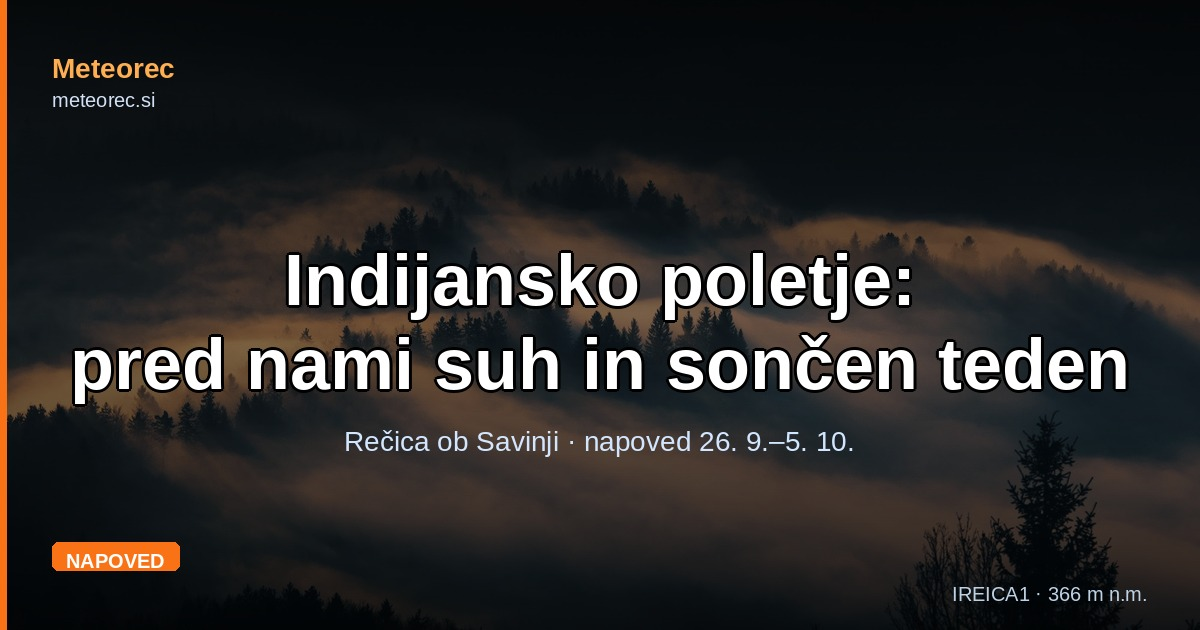
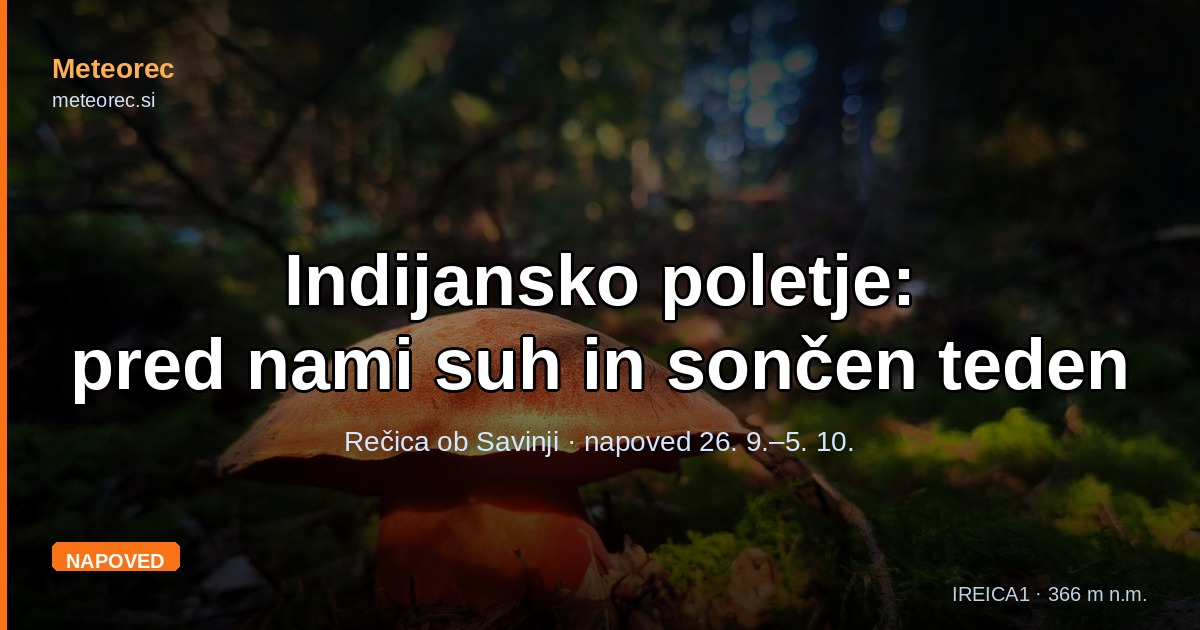
blog: indijansko poletje – lektura in fotografiji
Vneseni lektorski popravki (slog, ponavljanja, časovni izrazi, »članov
ansambla«), tudi v FAQ in shemi FAQPage. Dodani fotografiji s 25. 9.
(večerni altokumulusi, goban v smrekovem gozdu), pomanjšani na 1248 px
in brez metapodatkov EXIF; OG slika zdaj iz fotografije gobana.
seo_audit.py in geo_audit.py brez napak.

Claude-Session: https://claude.ai/code/session_01D8JwkgFu43L9J6TMop3vem

diff --git a/blog/indijansko-poletje-suh-soncen-teden-0925.html b/blog/indijansko-poletje-suh-soncen-teden-0925.html
@@ -76,13 +76,13 @@ j=d.createElement(s),dl=l!='dataLayer'?'&l='+l:'';j.async=true;j.src=
   "inLanguage": "sl",
   "mainEntity": [
     { "@type": "Question", "name": "Kaj je indijansko poletje?",
-      "acceptedAnswer": { "@type": "Answer", "text": "Indijansko poletje je obdobje suhega, sončnega in za letni čas toplega vremena sredi jeseni, ko so že bili prvi hladni dnevi. Izraz izvira iz Severne Amerike. V srednji Evropi mu rečemo babje poletje, Hrvati pa miholjsko ljeto, po godu sv. Mihaela 29. septembra. Značilni so topla popoldneva, hladna jutra, pogosto z meglo po dolinah, in skoraj brez vetra." },
+      "acceptedAnswer": { "@type": "Answer", "text": "Indijansko poletje je obdobje suhega, sončnega in za letni čas toplega vremena sredi jeseni, ko so že bili prvi hladni dnevi. Izraz izvira iz Severne Amerike. V srednji Evropi mu rečemo babje poletje, Hrvati pa miholjsko ljeto, po godu sv. Mihaela 29. septembra. Značilni so topla popoldneva, hladna jutra, pogosto z meglo po dolinah, in skoraj brezvetrje." },
       "@id": "https://meteorec.si/blog/indijansko-poletje-suh-soncen-teden-0925.html#faq1" },
     { "@type": "Question", "name": "Koliko časa bo trajalo indijansko poletje v Zgornji Savinjski dolini?",
-      "acceptedAnswer": { "@type": "Answer", "text": "Po napovedi s 25. septembra 2026 bo suho vsaj od sobote, 26. septembra, do četrtka, 1. oktobra: nobeden od 51 členov ansambla ECMWF v tem času nima vsaj 1 mm dežja. Od petka dalje verjetnost dežja počasi narašča, okoli ponedeljka, 5. oktobra, pa ARSO in Open-Meteo napovedujeta dež." },
+      "acceptedAnswer": { "@type": "Answer", "text": "Po napovedi s 25. septembra 2026 bo suho vsaj od sobote, 26. septembra, do četrtka, 1. oktobra: nobeden od 51 članov ansambla ECMWF v tem času nima vsaj 1 mm dežja. Od petka dalje verjetnost dežja počasi narašča, okoli ponedeljka, 5. oktobra, pa ARSO in Open-Meteo napovedujeta dež." },
       "@id": "https://meteorec.si/blog/indijansko-poletje-suh-soncen-teden-0925.html#faq2" },
     { "@type": "Question", "name": "Zakaj so jutra ob indijanskem poletju tako hladna?",
-      "acceptedAnswer": { "@type": "Answer", "text": "Ker je zrak suh in nebo jasno, tla ponoči hitro oddajajo toploto, noči pa so konec septembra že daljše od dni. Hladen zrak se steka na dno doline in tam obleži pod temperaturno inverzijo. Zato je razlika med jutrom in popoldnevom večja kot običajno: v Rečici ob Savinji jo lokalni model MTR za prve dni napoveduje okoli 16 °C, povprečje tega tedna v letih 2020 do 2025 pa je bilo 11,5 °C." },
+      "acceptedAnswer": { "@type": "Answer", "text": "Ker je zrak suh in nebo jasno, tla ponoči hitro oddajajo toploto, noči pa so konec septembra že daljše od dni. Hladen zrak se steka na dno doline in tam obleži pod temperaturno inverzijo. Zato je razlika med jutrom in popoldnevom večja kot običajno: v Rečici ob Savinji jo lokalni model MTR za prve dni napoveduje okoli 16 °C, povprečje tega tedna v letih 2020–2025 pa je bilo 11,5 °C." },
       "@id": "https://meteorec.si/blog/indijansko-poletje-suh-soncen-teden-0925.html#faq3" }
   ]
 }
@@ -142,28 +142,33 @@ height="0" width="0" style="display:none;visibility:hidden"></iframe></noscript>
     <h1>Indijansko poletje: pred nami suh in sončen teden</h1>
     <p class="post-meta">25. septembra 2026 · Filip Eremita · Napoved za 26. 9.–5. 10.</p>
 
-    <p class="lead">V sredo zjutraj je postaja v Rečici namerila <strong>2,2 °C</strong>, najmanj letošnjo jesen. Zdaj se nad srednjo Evropo krepi <a href="/slovar/anticiklon/" style="color:var(--blue)">anticiklon</a> in vsi viri napovedi, ki jih spremljamo, se strinjajo: od sobote do vsaj četrtka bo suho in pretežno jasno, popoldne okoli 20 °C ali nekaj več, jutra pa hladna. Takemu vremenu sredi jeseni, potem ko smo že okusili prvi mraz, rečemo <strong>indijansko poletje</strong>.</p>
+    <p class="lead">V sredo zjutraj je postaja v Rečici izmerila <strong>2,2 °C</strong>, najmanj letošnjo jesen. Zdaj se nad srednjo Evropo krepi <a href="/slovar/anticiklon/" style="color:var(--blue)">anticiklon</a> in vsi viri napovedi, ki jih spremljamo, se strinjajo: od sobote do vsaj četrtka bo suho in pretežno jasno, popoldne okoli 20 °C ali nekaj več, jutra pa hladna. Takemu vremenu sredi jeseni, potem ko smo že okusili prvi mraz, rečemo <strong>indijansko poletje</strong>.</p>
 
     <div class="stat-grid">
-      <div class="stat-card c-rain"><div class="sc-label">Dež do 1. 10.</div><div class="sc-val">0/51</div><div class="sc-sub">členov ansambla ECMWF z vsaj 1 mm</div></div>
-      <div class="stat-card c-temp"><div class="sc-label">Popoldne (MTR)</div><div class="sc-val">21–23</div><div class="sc-sub">°C, sobota do ponedeljek</div></div>
-      <div class="stat-card c-wind"><div class="sc-label">Jutro (MTR)</div><div class="sc-val">5–7</div><div class="sc-sub">°C, sobota do ponedeljek</div></div>
-      <div class="stat-card c-temp"><div class="sc-label">Povprečje tedna</div><div class="sc-val">18,9</div><div class="sc-sub">°C najvišja, 28. 9.–4. 10. v letih 2020–2025</div></div>
+      <div class="stat-card c-rain"><div class="sc-label">Dež do 1. 10.</div><div class="sc-val">0/51</div><div class="sc-sub">članov ansambla ECMWF z vsaj 1 mm</div></div>
+      <div class="stat-card c-temp"><div class="sc-label">Popoldne (MTR)</div><div class="sc-val">21–23</div><div class="sc-sub">°C, sobota do ponedeljka</div></div>
+      <div class="stat-card c-wind"><div class="sc-label">Jutro (MTR)</div><div class="sc-val">5–7</div><div class="sc-sub">°C, sobota do ponedeljka</div></div>
+      <div class="stat-card c-temp"><div class="sc-label">Povprečje tedna</div><div class="sc-val">18,9</div><div class="sc-sub">°C najvišja temperatura, 28. 9.–4. 10. v letih 2020–2025</div></div>
     </div>
 
     <span class="section-label">01 — Kaj je indijansko poletje</span>
     <h2 id="kaj">Poletje, ki se vrne, ko ga ne pričakujemo več</h2>
 
-    <p>Izraz <em>Indian summer</em> izvira iz Severne Amerike, kjer se v zapisih pojavlja od konca 18. stoletja. Tam pomeni toplo, suho in mirno obdobje sredi jeseni, ki pride <strong>po prvem mrazu</strong>. Od kod ime, ni zanesljivo znano; najpogostejša razlaga ga povezuje z domorodnimi ljudstvi, ki so te dni izkoristila za zadnje spravilo in lov pred zimo.</p>
+    <p>Izraz <em>Indian summer</em> izvira iz Severne Amerike, kjer se v zapisih pojavlja že od konca 18. stoletja. Tam pomeni toplo, suho in mirno obdobje sredi jeseni, ki pride <strong>po prvem mrazu</strong>. Od kod ime, ni zanesljivo znano; najpogostejša razlaga ga povezuje z domorodnimi ljudstvi, ki so te dni izkoristila za zadnje spravilo in lov pred zimo.</p>
 
-    <p>V srednji Evropi ima isti pojav domače ime: <strong>babje poletje</strong> (nemško <em>Altweibersommer</em>). Najpogostejša razlaga imena so tanke pajčje niti, ki jih mladi pajki v teh mirnih dneh spuščajo v zrak in se nanje dajo nositi – na soncu se svetlikajo kot sivi lasje. Hrvati mu rečejo <em>miholjsko ljeto</em>, po godu sv. Mihaela 29. septembra, ki pade letos natanko v torek sredi napovedanega suhega obdobja.</p>
+    <p>V srednji Evropi ima isti pojav domače ime: <strong>babje poletje</strong> (nemško <em>Altweibersommer</em>). Najpogostejša razlaga imena so tanke pajčevinaste niti, ki jih mladi pajki v teh mirnih dneh spuščajo v zrak in se na njih pustijo nositi – na soncu se svetlikajo kot sivi lasje. Hrvati mu rečejo <em>miholjsko ljeto</em>, po godu sv. Mihaela 29. septembra, ki letos pade natanko na torek sredi napovedanega suhega obdobja.</p>
 
-    <p>Z vremenskega vidika gre vedno za isto: nad nami obleži območje visokega zračnega tlaka, zrak se v njem počasi spušča in ogreva, oblaki se razkrojijo, vetra skoraj ni. Pogoj »po prvem mrazu« je letos v dolini izpolnjen le napol: slane v Rečici še ni bilo, sredino jutro z 2,2 °C pa je bilo mrazu blizu (več o tem v članku <a href="/blog/2-1-c-najhladnejse-jesensko-jutro-kdaj-prva-slana-0923.html" style="color:var(--blue)">Najhladnejše jesensko jutro: kdaj prva slana?</a>).</p>
+    <p>Z vremenskega vidika gre vedno za isti pojav: nad nami vztraja območje visokega zračnega tlaka, zrak se v njem počasi spušča in ogreva, oblaki se razkrojijo, vetra pa je zelo malo. Pogoj »po prvem mrazu« je letos v dolini izpolnjen le napol: slane v Rečici še ni bilo, sredino jutro z 2,2 °C pa je bilo mrazu že blizu (več o tem v članku <a href="/blog/2-1-c-najhladnejse-jesensko-jutro-kdaj-prva-slana-0923.html" style="color:var(--blue)">Najhladnejše jesensko jutro: kdaj prva slana?</a>).</p>
+
+    <figure class="post-photo">
+      <img src="/img/blog/indijansko-poletje-suh-soncen-teden-0925/foto-1.jpg" alt="Večerno modro nebo, prepredeno z vrstami drobnih, rumenkasto osvetljenih kopastih oblakov; spodaj temni obrisi gozda, drevesa in hiše." width="1248" height="936" loading="lazy">
+      <figcaption>Nebo 25. septembra ob 18.34, dan pred začetkom suhega obdobja: vrste kopastih oblakov srednje višine, najverjetneje altokumulusov, v zadnji svetlobi dneva. Foto: Filip Eremita.</figcaption>
+    </figure>
 
     <span class="section-label">02 — Kaj kaže napoved</span>
     <h2 id="napoved">Trije viri, ena zgodba, različne številke</h2>
 
-    <p>Spodaj so napovedi, ki jih vsak dan beležimo tudi na semaforju <a href="/tocnost-napovedi/" style="color:var(--blue)">točnosti napovedi</a>. Številk ne povprečimo v eno, ker se viri ravno pri popoldanskih temperaturah razhajajo za več stopinj. ARSO objavlja napoved za Ljubno ob Savinji, Open-Meteo in naš model MTR pa za točko postaje v Rečici. MTR napoveduje tri dni vnaprej, zato ima vrednosti samo za soboto, nedeljo in ponedeljek.</p>
+    <p>Spodaj so napovedi, ki jih vsak dan beležimo tudi na semaforju <a href="/tocnost-napovedi/" style="color:var(--blue)">točnosti napovedi</a>. Številk ne povprečimo v eno samo vrednost, ker se viri predvsem pri popoldanskih temperaturah razlikujejo za več stopinj. ARSO objavlja napoved za Ljubno ob Savinji, Open-Meteo in naš model MTR pa za točko postaje v Rečici. MTR napoveduje tri dni vnaprej, zato ima vrednosti samo za soboto, nedeljo in ponedeljek.</p>
 
     <div class="chart-card">
       <h3>Od jutra do popoldneva, 26. 9.–5. 10.</h3>
@@ -194,18 +199,22 @@ height="0" width="0" style="display:none;visibility:hidden"></iframe></noscript>
       </details>
     </div>
 
-    <p>Glede suhega vremena so si viri enotni. ARSO do vključno četrtka napoveduje jasno, Open-Meteo do nedelje, 4. oktobra, nič padavin, pri ansamblu ECMWF pa do četrtka nobeden od 51 izračunov ne da niti milimetra dežja. Tako enotnega ansambla šest dni vnaprej ne vidimo pogosto.</p>
+    <p>Glede suhega vremena so si viri enotni. ARSO do vključno četrtka napoveduje jasno vreme, Open-Meteo do nedelje, 4. oktobra, ne napoveduje padavin, pri ansamblu ECMWF pa do četrtka nobeden od 51 izračunov ne predvideva niti milimetra dežja. Tako enotnega ansambla šest dni vnaprej ne vidimo pogosto.</p>
 
-    <p>Pri temperaturah je drugače. ARSO za popoldneva napoveduje 14 do 18 °C, Open-Meteo 17 do 21 °C, MTR 21 do 23 °C. Kateremu verjeti? Septembrske meritve dajo precej jasen odgovor. Od 1. do 24. septembra je ARSO najvišjo dnevno temperaturo v Rečici v povprečju podcenil za <span class="mono">3,8 °C</span>, Open-Meteo za <span class="mono">1,3 °C</span>, MTR pa jo je zadel skoraj natanko (povprečna napaka −0,1 °C). Del razlike pri ARSO gre na račun kraja, saj je napoved za Ljubno in ne za Rečico, a zaostanek je v sončnih dneh sistematičen. Popoldneva okoli <strong>21 do 23 °C</strong> so zato bolj verjetna kot 16 °C.</p>
+    <p>Pri temperaturah je drugače. ARSO za popoldneva napoveduje 14 do 18 °C, Open-Meteo 17 do 21 °C, MTR pa 21 do 23 °C. Kateremu verjeti?</p>
 
-    <p>Ponoči je slika obrnjena. Open-Meteo za ponedeljek in torek napoveduje jutra pri 10 do 11 °C, MTR pa za ponedeljek 7,4 °C. MTR se je naučil, da na dnu doline ob jasnih nočeh ohladi precej bolj, kot predvideva model z mrežo več kilometrov: za nedeljo jutro je njegov popravek −2,9 °C, za ponedeljek −3,5 °C.</p>
+    <p>Septembrske meritve dajo precej jasen odgovor. Od 1. do 24. septembra je ARSO najvišjo dnevno temperaturo v Rečici v povprečju podcenil za <span class="mono">3,8 °C</span>, Open-Meteo za <span class="mono">1,3 °C</span>, MTR pa jo je zadel skoraj natanko (povprečna napaka −0,1 °C). Del razlike pri ARSO gre na račun kraja, saj je napoved namenjena Ljubnemu in ne Rečici, a zaostanek je v sončnih dneh sistematičen. Popoldnevi okoli <strong>21 do 23 °C</strong> so zato verjetnejši kot 16 °C.</p>
+
+    <p>Ponoči je slika obrnjena. Open-Meteo za ponedeljek in torek napoveduje jutranje temperature med 10 in 11 °C, MTR pa za ponedeljek 7,4 °C. MTR se je naučil, da se na dnu doline ob jasnih nočeh ozračje ohladi precej bolj, kot predvideva model z mrežo, veliko nekaj kilometrov: za nedeljsko jutro je njegov popravek −2,9 °C, za ponedeljek pa −3,5 °C.</p>
 
     <span class="section-label">03 — Topla popoldneva, hladna jutra</span>
     <h2 id="amplituda">Dan in noč bosta narazen za 16 stopinj</h2>
 
-    <p>Za indijansko poletje je značilna velika <a href="/slovar/dnevna-amplituda-temperature/" style="color:var(--blue)">dnevna amplituda temperature</a>. Popoldne sonce še greje: na višini okoli 1 500 m (850 hPa) bo po Open-Meteu od nedelje do torka od 8 do 10 °C, kar je za konec septembra toplo. Noči pa so že daljše od dni, zrak je suh, nebo jasno, zato tla ponoči hitro oddajajo toploto. Ohlajeni zrak se po pobočjih steka na dno doline in tam obleži pod <a href="/slovar/temperaturna-inverzija/" style="color:var(--blue)">temperaturno inverzijo</a>. Kjer je dovolj vlage, se zjutraj naredi <a href="/slovar/megla/" style="color:var(--blue)">megla</a>, ki se razkadi do dopoldneva.</p>
+    <p>Za indijansko poletje je značilna velika <a href="/slovar/dnevna-amplituda-temperature/" style="color:var(--blue)">dnevna temperaturna amplituda</a>. Popoldne sonce še greje: na višini okoli 1 500 m (850 hPa) bo po Open-Meteu od nedelje do torka od 8 do 10 °C, kar je za konec septembra precej toplo. Noči pa so že daljše od dni, zrak je suh in nebo jasno, zato tla ponoči hitro oddajajo toploto. Ohlajeni zrak se po pobočjih steka na dno doline in tam obleži pod <a href="/slovar/temperaturna-inverzija/" style="color:var(--blue)">temperaturno inverzijo</a>. Kjer je dovolj vlage, se zjutraj naredi <a href="/slovar/megla/" style="color:var(--blue)">megla</a>, ki se do dopoldneva razkadi.</p>
 
-    <p>MTR za soboto, nedeljo in ponedeljek napoveduje razliko med jutrom in popoldnevom <span class="mono">16,5</span>, <span class="mono">15,8</span> in <span class="mono">15,8 °C</span>. Za primerjavo: v istem tednu (28. 9.–4. 10.) je bila v letih 2020 do 2025 povprečna razlika <span class="mono">11,5 °C</span>. Največja je bila leta 2023, edinkrat, ko je bil ta teden povsem suh: <span class="mono">15,0 °C</span>. Kdor gre zjutraj od doma v majici s kratkimi rokavi, ker bo popoldne toplo, bo prve ure pošteno prezebal.</p>
+    <p>MTR za soboto, nedeljo in ponedeljek napoveduje razliko med jutrom in popoldnevom <span class="mono">16,5</span>, <span class="mono">15,8</span> in <span class="mono">15,8 °C</span>. Za primerjavo: v istem tednu (28. 9.–4. 10.) je bila v letih 2020–2025 povprečna razlika <span class="mono">11,5 °C</span>. Največja je bila leta 2023, ko je bil ta teden edinkrat povsem suh: <span class="mono">15,0 °C</span>.</p>
+
+    <p>Kdor gre zjutraj od doma v majici s kratkimi rokavi, ker bo popoldne toplo, bo prve ure pošteno prezebel.</p>
 
     <span class="section-label">04 — Kako je bilo prejšnja leta</span>
     <h2 id="zgodovina">Suh teden na prelomu septembra in oktobra je izjema</h2>
@@ -242,14 +251,18 @@ height="0" width="0" style="display:none;visibility:hidden"></iframe></noscript>
       </details>
     </div>
 
-    <p>Pravo indijansko poletje – suho <em>in</em> toplo – je bilo v šestih letih samo eno: leta 2023. Takrat je bila povprečna najvišja temperatura v tem tednu 24 °C, 2. oktobra je postaja namerila 26,3 °C, suho in toplo vreme pa je z dnevi čez 25 °C trajalo vse do 14. oktobra. Končal ga je 15. oktobra dež s 64,5 mm, dva dni pozneje pa je bilo v Rečici prvič pod ničlo (−0,5 °C). Lani je bilo sicer skoraj suho, a hladno: povprečna najvišja temperatura je bila le 15,4 °C, povprečna najnižja 4,8 °C. Leta 2024 je v istem tednu padlo 117 mm dežja.</p>
+    <p>Pravo indijansko poletje – suho <em>in</em> toplo – je bilo v šestih letih samo eno: leta 2023. Takrat je bila povprečna najvišja temperatura v tem tednu 24 °C, 2. oktobra je postaja namerila 26,3 °C, suho in toplo vreme pa je z dnevi nad 25 °C trajalo vse do 14. oktobra. Končal ga je dež 15. oktobra, ko je padlo 64,5 mm, dva dni pozneje pa je bilo v Rečici prvič pod ničlo (−0,5 °C).</p>
+
+    <p>Lani je bilo sicer skoraj suho, a hladno: povprečna najvišja temperatura je bila le 15,4 °C, povprečna najnižja pa 4,8 °C. Leta 2024 je v istem tednu padlo kar 117 mm dežja.</p>
 
     <p>Letošnji teden bo po napovedi nekje vmes: bolj suh od večine let, toplejši od lanskega, a daleč od 26 °C izpred treh let.</p>
 
     <span class="section-label">05 — Kdaj se konča</span>
     <h2 id="konec">Proti koncu tedna vse več negotovosti</h2>
 
-    <p>Od petka, 2. oktobra, se izračuni ansambla ECMWF začnejo razhajati. Delež izračunov z dežjem naraste z 10 % v petek na 27 % v nedeljo in 35 % v ponedeljek, 5. oktobra. Najhladnejša desetina izračunov ima v nedeljo popoldne le še okoli 15 °C, najtoplejša desetina 21 °C. ARSO in Open-Meteo v ponedeljek, 5. oktobra, napovedujeta dež (13 oziroma 26 mm), vendar je to deset dni vnaprej in se datum lahko še premakne za dan ali dva v katero koli smer. Najverjetneje bo torej vztrajalo do konca tedna, nato pa nas bo z dežjem spet ujela jesen.</p>
+    <p>Od petka, 2. oktobra, se izračuni ansambla ECMWF začnejo razhajati. Delež izračunov z dežjem naraste z 10 % v petek na 27 % v nedeljo in 35 % v ponedeljek, 5. oktobra. Najhladnejša desetina izračunov ima v nedeljo popoldne le še okoli 15 °C, najtoplejša desetina pa 21 °C.</p>
+
+    <p>ARSO in Open-Meteo v ponedeljek, 5. oktobra, napovedujeta dež (13 oziroma 26 mm), vendar je to deset dni vnaprej in se datum lahko še premakne za dan ali dva v katero koli smer. Najverjetneje bo torej suho vreme vztrajalo do konca tedna, nato pa nas bo z dežjem spet ujela jesen.</p>
 
     <span class="section-label">06 — Kaj to pomeni</span>
     <h2 id="pomen">Za izlete, gobarje in jutranje voznike</h2>
@@ -258,21 +271,27 @@ height="0" width="0" style="display:none;visibility:hidden"></iframe></noscript>
 
     <p><strong>Gobarji:</strong> po dežju sredi septembra je bil <a href="/blog/jesenski-vrh-gob-2026-savinjska-dolina-0922.html" style="color:var(--blue)">jesenski vrh gob</a> v polnem teku. Teden brez dežja bo tla počasi izsuševal, rosa in megla pa bosta sušo ob jutrih nekoliko omilili. Kako se to pozna v indeksu po vrstah in območjih, sproti kaže <a href="/gobarska-napoved/" style="color:var(--blue)">gobarska napoved</a>.</p>
 
-    <p><strong>Vozniki:</strong> čez Črnivec bo jutra hladneje kot v dolini, ob jasnih nočeh pa se na prelazu lahko pojavi tudi slana. Stanje na cesti je sproti na strani <a href="https://crnivec.si/" style="color:var(--blue)">Kako je čez Črnivec?</a> Za dolino je sprotna napoved po urah na strani <a href="/vreme-recica-ob-savinji/" style="color:var(--blue)">Vreme Rečica ob Savinji</a>.</p>
+    <figure class="post-photo">
+      <img src="/img/blog/indijansko-poletje-suh-soncen-teden-0925/foto-2.jpg" alt="Goban z rjavim klobukom in rdečkastim betom med mahom in iglicami v smrekovem gozdu, osvetljen s poševnim popoldanskim soncem." width="1248" height="936" loading="lazy">
+      <figcaption>Goban v smrekovem gozdu, 25. septembra 2026 ob 15.58. Po dežju sredi septembra je gozd še vlažen, suh teden pa bo rast počasi zaviral. Foto: Filip Eremita.</figcaption>
+    </figure>
+
+
+    <p><strong>Vozniki:</strong> čez Črnivec bo zjutraj hladneje kot v dolini, ob jasnih nočeh pa se na prelazu lahko pojavi tudi slana. Stanje na cesti je sproti na strani <a href="https://crnivec.si/" style="color:var(--blue)">Kako je čez Črnivec?</a> Za dolino je sprotna napoved po urah na strani <a href="/vreme-recica-ob-savinji/" style="color:var(--blue)">Vreme Rečica ob Savinji</a>.</p>
 
     <div class="faq-block">
       <h2 id="vprasanja">Pogosta vprašanja</h2>
       <div class="faq-item">
         <h3>Kaj je indijansko poletje?</h3>
-        <p>Indijansko poletje je obdobje suhega, sončnega in za letni čas toplega vremena sredi jeseni, ko so že bili prvi hladni dnevi. Izraz izvira iz Severne Amerike. V srednji Evropi mu rečemo babje poletje, Hrvati pa miholjsko ljeto, po godu sv. Mihaela 29. septembra. Značilni so topla popoldneva, hladna jutra, pogosto z meglo po dolinah, in skoraj brez vetra.</p>
+        <p>Indijansko poletje je obdobje suhega, sončnega in za letni čas toplega vremena sredi jeseni, ko so že bili prvi hladni dnevi. Izraz izvira iz Severne Amerike. V srednji Evropi mu rečemo babje poletje, Hrvati pa miholjsko ljeto, po godu sv. Mihaela 29. septembra. Značilni so topla popoldneva, hladna jutra, pogosto z meglo po dolinah, in skoraj brezvetrje.</p>
       </div>
       <div class="faq-item">
         <h3>Koliko časa bo trajalo indijansko poletje v Zgornji Savinjski dolini?</h3>
-        <p>Po napovedi s 25. septembra 2026 bo suho vsaj od sobote, 26. septembra, do četrtka, 1. oktobra: nobeden od 51 členov ansambla ECMWF v tem času nima vsaj 1 mm dežja. Od petka dalje verjetnost dežja počasi narašča, okoli ponedeljka, 5. oktobra, pa ARSO in Open-Meteo napovedujeta dež.</p>
+        <p>Po napovedi s 25. septembra 2026 bo suho vsaj od sobote, 26. septembra, do četrtka, 1. oktobra: nobeden od 51 članov ansambla ECMWF v tem času nima vsaj 1 mm dežja. Od petka dalje verjetnost dežja počasi narašča, okoli ponedeljka, 5. oktobra, pa ARSO in Open-Meteo napovedujeta dež.</p>
       </div>
       <div class="faq-item">
         <h3>Zakaj so jutra ob indijanskem poletju tako hladna?</h3>
-        <p>Ker je zrak suh in nebo jasno, tla ponoči hitro oddajajo toploto, noči pa so konec septembra že daljše od dni. Hladen zrak se steka na dno doline in tam obleži pod temperaturno inverzijo. Zato je razlika med jutrom in popoldnevom večja kot običajno: v Rečici ob Savinji jo lokalni model MTR za prve dni napoveduje okoli 16 °C, povprečje tega tedna v letih 2020 do 2025 pa je bilo 11,5 °C.</p>
+        <p>Ker je zrak suh in nebo jasno, tla ponoči hitro oddajajo toploto, noči pa so konec septembra že daljše od dni. Hladen zrak se steka na dno doline in tam obleži pod temperaturno inverzijo. Zato je razlika med jutrom in popoldnevom večja kot običajno: v Rečici ob Savinji jo lokalni model MTR za prve dni napoveduje okoli 16 °C, povprečje tega tedna v letih 2020–2025 pa je bilo 11,5 °C.</p>
       </div>
     </div>
 
